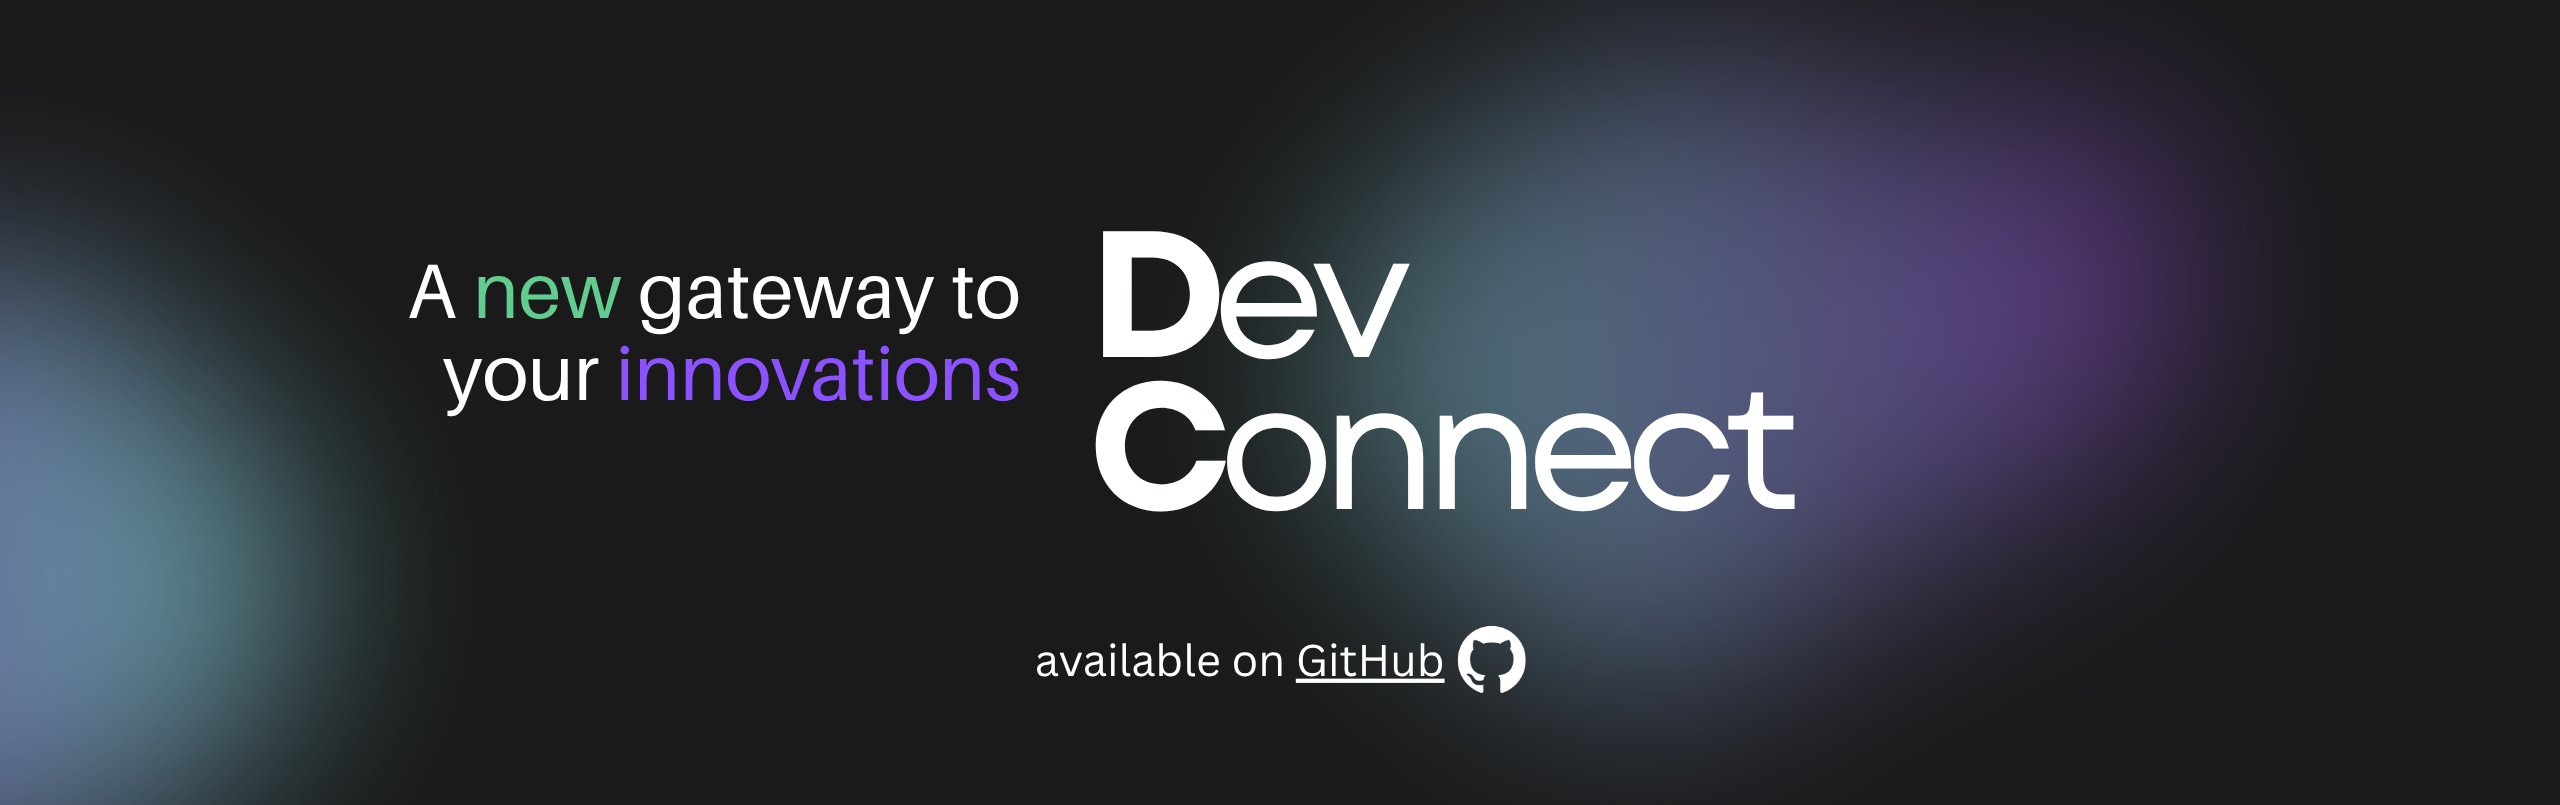
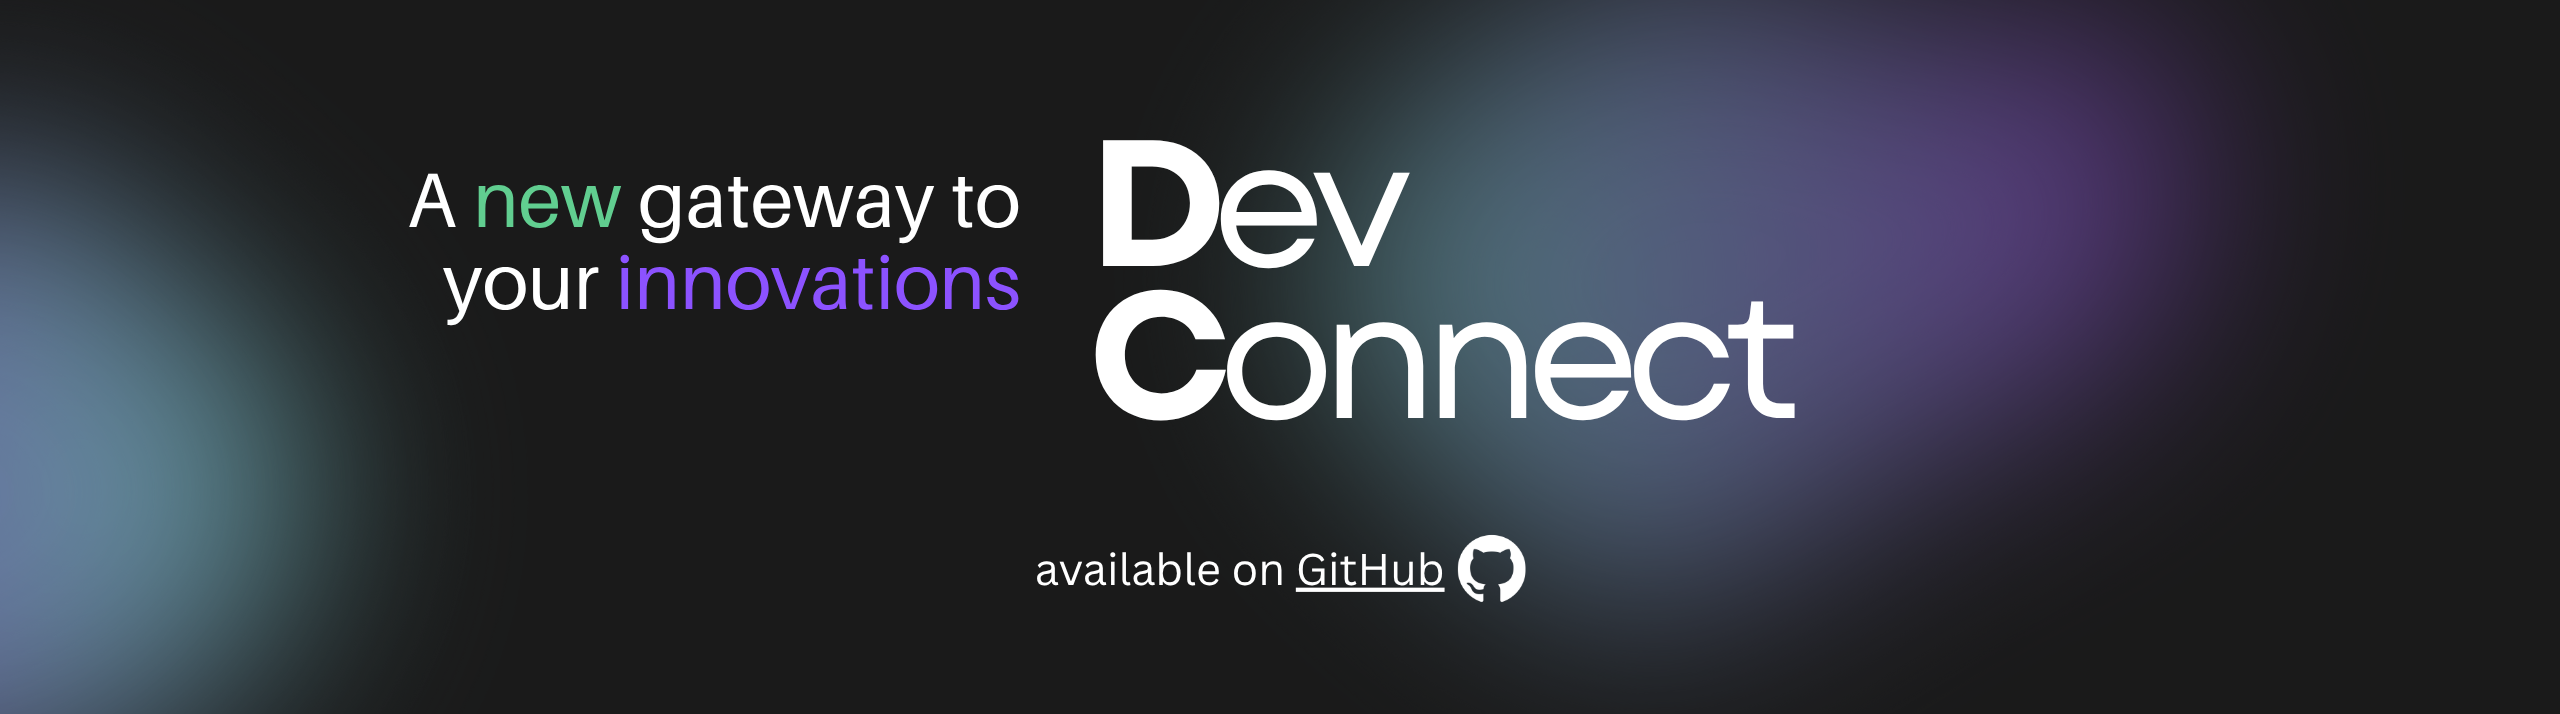
Push changes

diff --git a/src/features/profile/profileSlice.ts b/src/features/profile/profileSlice.ts
@@ -6,7 +6,7 @@ const initialState = {
   bio: "",
   github: "",
   profilePic: "https://avatars.githubusercontent.com/u/91088463?v=4",
-  bannerPic: "https://media.licdn.com/dms/image/v2/D5616AQEzBfCoUOV1eg/profile-displaybackgroundimage-shrink_350_1400/B56ZeG.9AHHoAg-/0/1750316342683?e=1755734400&v=beta&t=F9YA4czxSrybONPvlQ-vKb_4Xu3x6Ldue4XSaWkg3N8",
+  bannerPic: "https://raw.githubusercontent.com/ManishGond/devconnect-client/main/src/assets/banner.png",
   location: "",
   connections: 0,
   openToWork: false, // ✅ New field added
